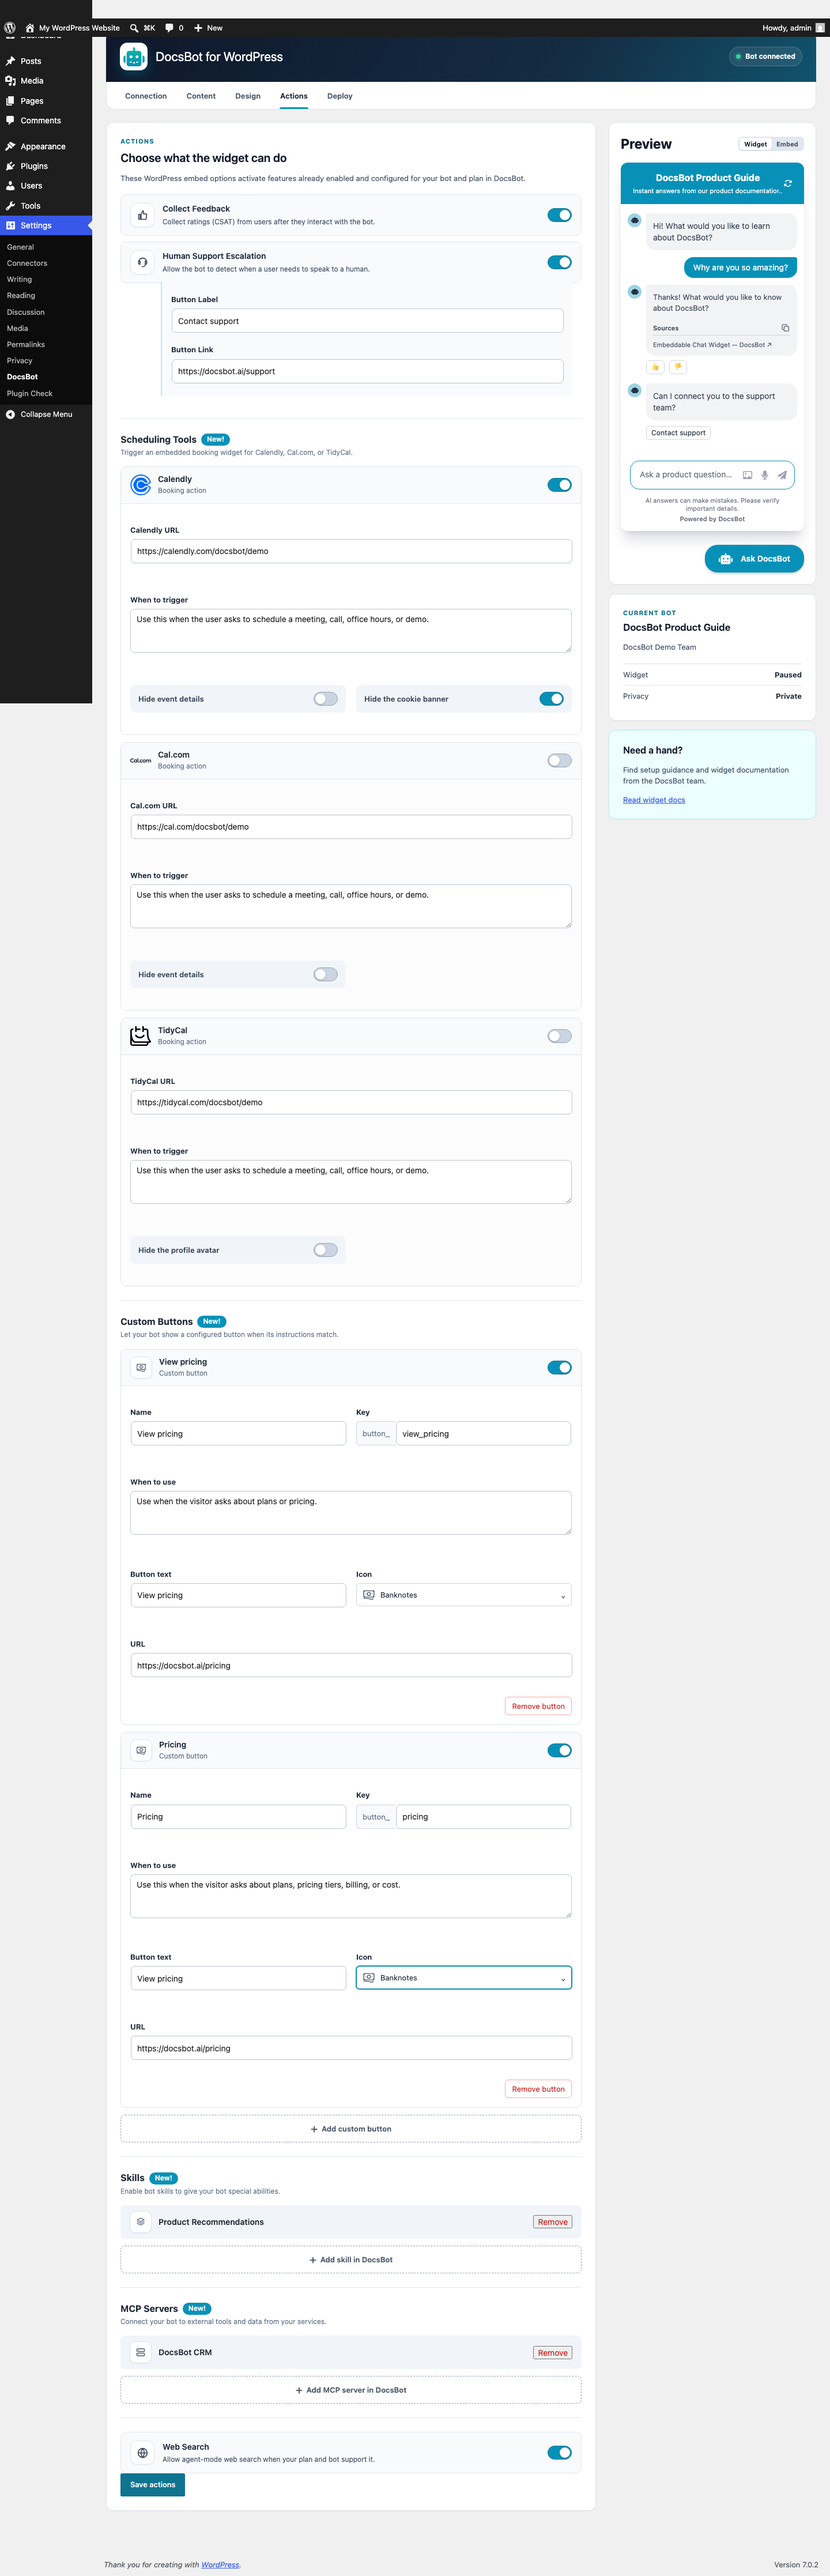
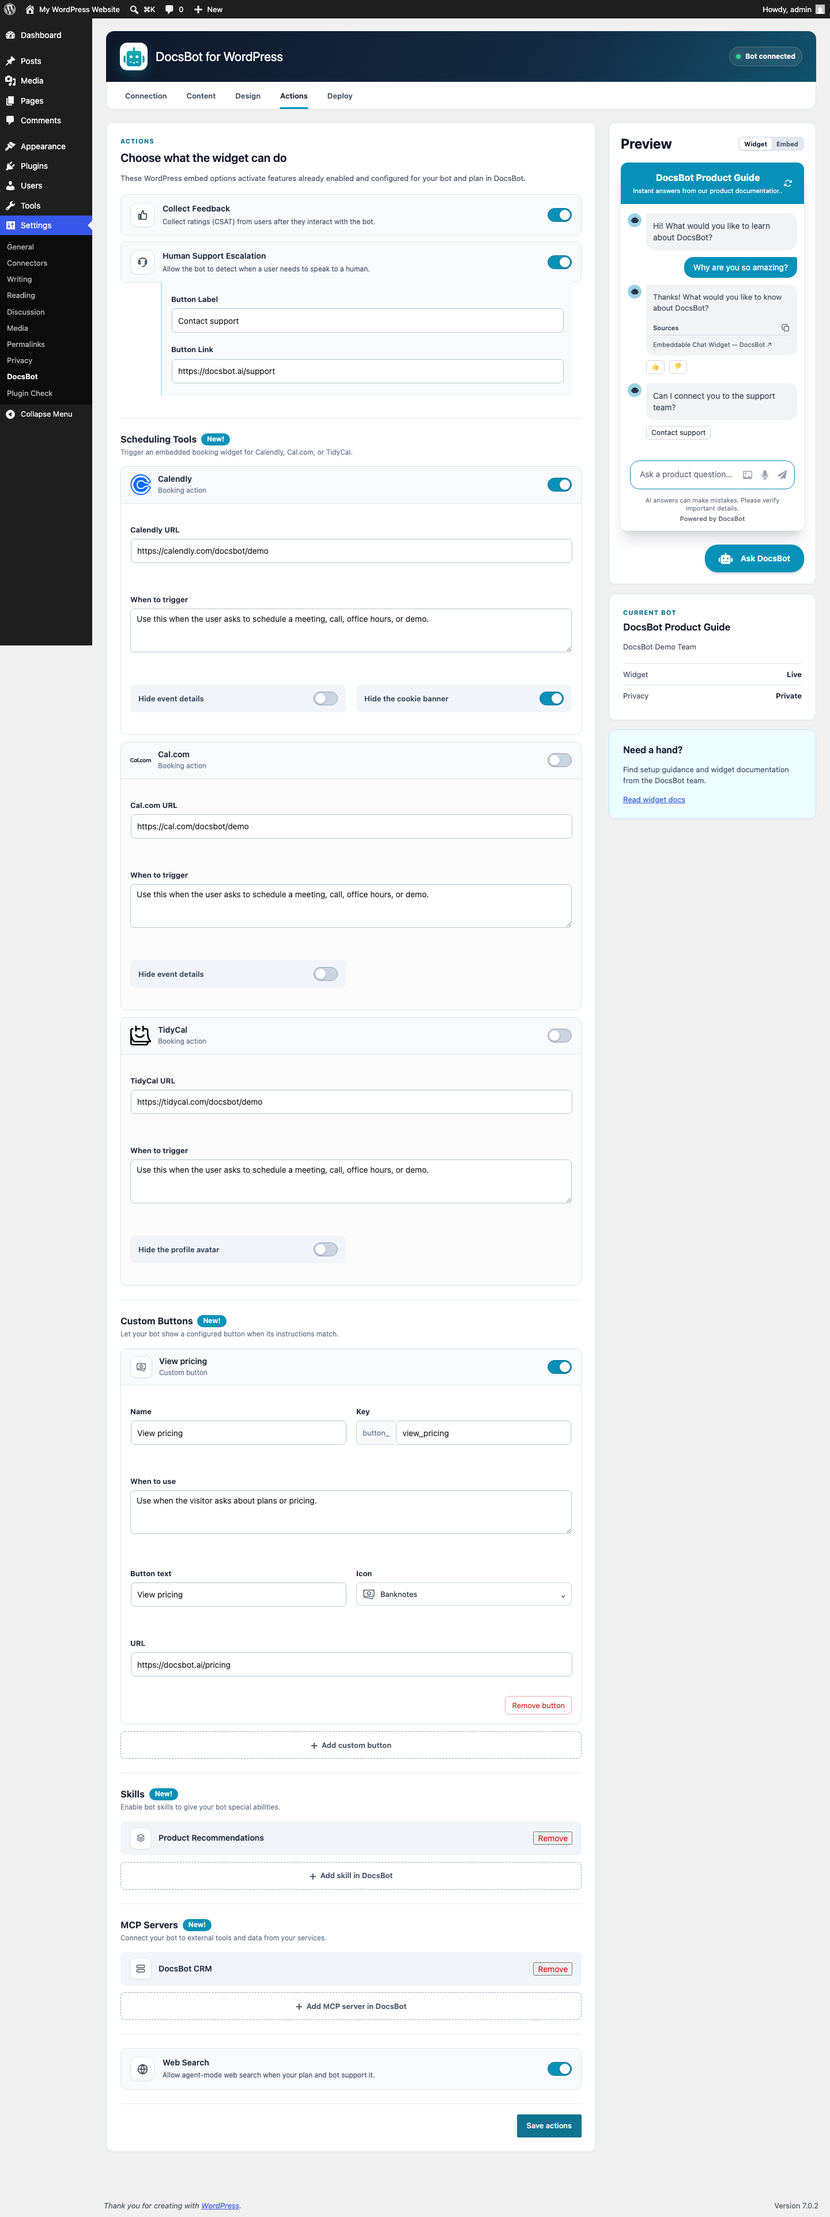
Polish DocsBot admin form actions

diff --git a/docsbot/assets/css/admin.css b/docsbot/assets/css/admin.css
@@ -863,9 +863,81 @@
 	display: none;
 }
 
+.docsbot-connection-actions {
+	display: flex;
+	align-items: center;
+	justify-content: flex-end;
+	gap: 12px;
+	margin-top: 18px;
+	padding-top: 16px;
+	border-top: 1px solid #e2e8f0;
+}
+
+.docsbot-reconnect.button {
+	min-height: 32px;
+	padding: 0 12px;
+	border-color: #a5f3fc;
+	background: #ecfeff;
+	color: #0e7490;
+	font-size: 12px;
+	font-weight: 600;
+	line-height: 30px;
+	white-space: nowrap;
+}
+
+.docsbot-reconnect.button:hover,
+.docsbot-reconnect.button:focus {
+	border-color: var(--docsbot-cyan);
+	background: #cffafe;
+	color: #155e75;
+}
+
 .docsbot-disconnect-form {
-	display: inline-block;
-	margin: 0 0 0 10px;
+	display: inline-flex;
+	margin: 0;
+}
+
+.docsbot-disconnect {
+	min-height: 32px;
+	padding: 0 4px;
+	border: 0;
+	background: transparent;
+	color: #b91c1c;
+	cursor: pointer;
+	font-size: 12px;
+	font-weight: 600;
+	line-height: 32px;
+	text-decoration: none;
+	white-space: nowrap;
+}
+
+.docsbot-disconnect:hover,
+.docsbot-disconnect:focus {
+	color: #7f1d1d;
+	text-decoration: underline;
+}
+
+.docsbot-disconnect:focus-visible {
+	border-radius: 4px;
+	outline: 2px solid #ef4444;
+	outline-offset: 2px;
+}
+
+.docsbot-form-actions {
+	display: flex;
+	align-items: center;
+	justify-content: flex-end;
+	clear: both;
+	width: 100%;
+	margin-top: 24px;
+	padding-top: 18px;
+	border-top: 1px solid #e2e8f0;
+	box-sizing: border-box;
+}
+
+.docsbot-form-actions .button {
+	margin: 0;
+	white-space: nowrap;
 }
 
 .docsbot-signing-status {
@@ -1651,16 +1723,11 @@
 	gap: 18px;
 }
 
-.docsbot-deploy-form > .submit,
-.docsbot-deploy-form > .docsbot-save-large {
-	justify-self: start;
-	margin: 0;
+.docsbot-deploy-form > .docsbot-form-actions {
+	justify-self: stretch;
 }
 
 .docsbot-sticky-save {
-	position: sticky;
-	z-index: 20;
-	top: 40px;
 	display: flex;
 	align-items: center;
 	justify-content: space-between;
@@ -1669,7 +1736,6 @@
 	border: 1px solid #bae6fd;
 	border-radius: 9px;
 	background: #ecfeff;
-	box-shadow: 0 5px 20px rgba(15, 23, 42, 0.12);
 	color: #164e63;
 	font-weight: 600;
 }
@@ -1756,6 +1822,16 @@
 
 	.docsbot-action-nested {
 		margin-left: 16px;
+	}
+
+	.docsbot-connection-actions {
+		align-items: flex-end;
+		flex-direction: column;
+	}
+
+	.docsbot-sticky-save {
+		align-items: flex-end;
+		flex-direction: column;
 	}
 }
 

diff --git a/docsbot/includes/class-docsbot-admin.php b/docsbot/includes/class-docsbot-admin.php
@@ -259,19 +259,19 @@ final class DocsBot_Admin {
 								<span class="screen-reader-text"><?php esc_html_e( '(opens in a new tab)', 'docsbot' ); ?></span>
 							</a>
 						</p>
-						<?php submit_button( $has_key ? __( 'Save new API key', 'docsbot' ) : __( 'Connect account', 'docsbot' ), 'primary', 'submit', false ); ?>
+						<?php $this->save_action( $has_key ? __( 'Save new API key', 'docsbot' ) : __( 'Connect account', 'docsbot' ) ); ?>
 					</div>
-					<?php if ( $has_key ) : ?>
-						<button type="button" class="button docsbot-reconnect" aria-expanded="false" aria-controls="docsbot-reconnect-panel"><?php esc_html_e( 'Reconnect with a different key', 'docsbot' ); ?></button>
-					<?php endif; ?>
 				</form>
 				<?php if ( $has_key ) : ?>
-					<form class="docsbot-disconnect-form" method="post" action="<?php echo esc_url( admin_url( 'admin-post.php' ) ); ?>">
-						<input type="hidden" name="action" value="docsbot_connect">
-						<input type="hidden" name="connection_intent" value="disconnect">
-						<?php wp_nonce_field( 'docsbot_connect' ); ?>
-						<button type="submit" class="button button-link-delete" data-confirm="<?php esc_attr_e( 'Disconnect DocsBot and remove the saved API key, bot selection, and signing key?', 'docsbot' ); ?>"><?php esc_html_e( 'Disconnect account', 'docsbot' ); ?></button>
-					</form>
+					<div class="docsbot-connection-actions">
+						<button type="button" class="button docsbot-reconnect" aria-expanded="false" aria-controls="docsbot-reconnect-panel"><?php esc_html_e( 'Reconnect with a different key', 'docsbot' ); ?></button>
+						<form class="docsbot-disconnect-form" method="post" action="<?php echo esc_url( admin_url( 'admin-post.php' ) ); ?>">
+							<input type="hidden" name="action" value="docsbot_connect">
+							<input type="hidden" name="connection_intent" value="disconnect">
+							<?php wp_nonce_field( 'docsbot_connect' ); ?>
+							<button type="submit" class="docsbot-disconnect" data-confirm="<?php esc_attr_e( 'Disconnect DocsBot and remove the saved API key, bot selection, and signing key?', 'docsbot' ); ?>"><?php esc_html_e( 'Disconnect account', 'docsbot' ); ?></button>
+						</form>
+					</div>
 				<?php endif; ?>
 			<?php endif; ?>
 		</div>
@@ -318,7 +318,7 @@ final class DocsBot_Admin {
 							: esc_html__( 'Choose a team first and save to load its bots.', 'docsbot' );
 						?>
 					</p>
-					<?php submit_button( __( 'Use selected bot', 'docsbot' ), 'primary', 'submit', false ); ?>
+					<?php $this->save_action( __( 'Use selected bot', 'docsbot' ) ); ?>
 				</form>
 				<?php if ( $settings['team_id'] && is_array( $bots ) && empty( $bots ) ) : ?>
 					<div class="docsbot-empty">
@@ -379,7 +379,7 @@ final class DocsBot_Admin {
 					<?php $this->checkbox( 'use_image_upload', __( 'Image uploads', 'docsbot' ), ! empty( $settings['use_image_upload'] ) ); ?>
 					<?php $this->checkbox( 'use_audio_upload', __( 'Voice input', 'docsbot' ), ! empty( $settings['use_audio_upload'] ) ); ?>
 				</div>
-				<?php submit_button( __( 'Save content', 'docsbot' ), 'primary', 'submit', false ); ?>
+				<?php $this->save_action( __( 'Save content', 'docsbot' ) ); ?>
 			</form>
 		</div>
 		<?php
@@ -464,7 +464,7 @@ final class DocsBot_Admin {
 				<div class="docsbot-toggle-grid">
 					<?php $this->checkbox( 'branding', __( 'Show DocsBot branding', 'docsbot' ), ! isset( $bot['branding'] ) || ! empty( $bot['branding'] ) ); ?>
 				</div>
-				<?php submit_button( __( 'Save design', 'docsbot' ), 'primary', 'submit', false ); ?>
+				<?php $this->save_action( __( 'Save design', 'docsbot' ) ); ?>
 			</form>
 		</div>
 		<?php
@@ -518,7 +518,7 @@ final class DocsBot_Admin {
 							<?php $this->text_field( 'support_label', __( 'Button Label', 'docsbot' ), $labels['getSupport'] ?? '', 80 ); ?>
 							<div class="docsbot-field">
 								<label for="docsbot-support-link"><?php esc_html_e( 'Button Link', 'docsbot' ); ?></label>
-								<input type="url" id="docsbot-support-link" name="support_link" value="<?php echo esc_attr( is_array( $bot ) ? ( $bot['supportLink'] ?? '' ) : '' ); ?>" placeholder="https://example.com/support/">
+								<input type="url" id="docsbot-support-link" name="support_link" value="<?php echo esc_attr( is_string( $bot['supportLink'] ?? '' ) ? $bot['supportLink'] : '' ); ?>" placeholder="https://example.com/support/">
 							</div>
 						</div>
 					</div>
@@ -629,7 +629,7 @@ final class DocsBot_Admin {
 				<div class="docsbot-action-footer">
 					<?php $this->option_toggle( 'use_web_search', __( 'Web Search', 'docsbot' ), __( 'Allow agent-mode web search when your plan and bot support it.', 'docsbot' ), $settings['use_web_search'], 'globe' ); ?>
 				</div>
-				<?php submit_button( __( 'Save actions', 'docsbot' ), 'primary', 'submit', false ); ?>
+				<?php $this->save_action( __( 'Save actions', 'docsbot' ) ); ?>
 			</form>
 		</div>
 		<?php
@@ -894,7 +894,7 @@ final class DocsBot_Admin {
 				<?php endif; ?>
 				<a href="https://docsbot.ai/app/bots" target="_blank" rel="noopener noreferrer"><?php esc_html_e( 'Open bot embed settings in DocsBot', 'docsbot' ); ?></a>
 			</div>
-			<?php submit_button( __( 'Save deployment', 'docsbot' ), 'primary docsbot-save-large', 'submit', false ); ?>
+			<?php $this->save_action( __( 'Save deployment', 'docsbot' ), 'docsbot-save-large' ); ?>
 		</form>
 		<?php
 	}
@@ -1907,6 +1907,22 @@ final class DocsBot_Admin {
 		<form method="post" action="<?php echo esc_url( admin_url( 'admin-post.php' ) ); ?>">
 			<input type="hidden" name="action" value="<?php echo esc_attr( $action ); ?>">
 			<?php wp_nonce_field( $action ); ?>
+		<?php
+	}
+
+	/**
+	 * Render a consistently aligned primary form action.
+	 *
+	 * @param string $label         Button label.
+	 * @param string $extra_classes Optional additional button classes.
+	 * @return void
+	 */
+	private function save_action( $label, $extra_classes = '' ) {
+		$classes = trim( 'primary ' . sanitize_html_class( $extra_classes ) );
+		?>
+		<div class="docsbot-form-actions">
+			<?php submit_button( $label, $classes, 'submit', false ); ?>
+		</div>
 		<?php
 	}
 
